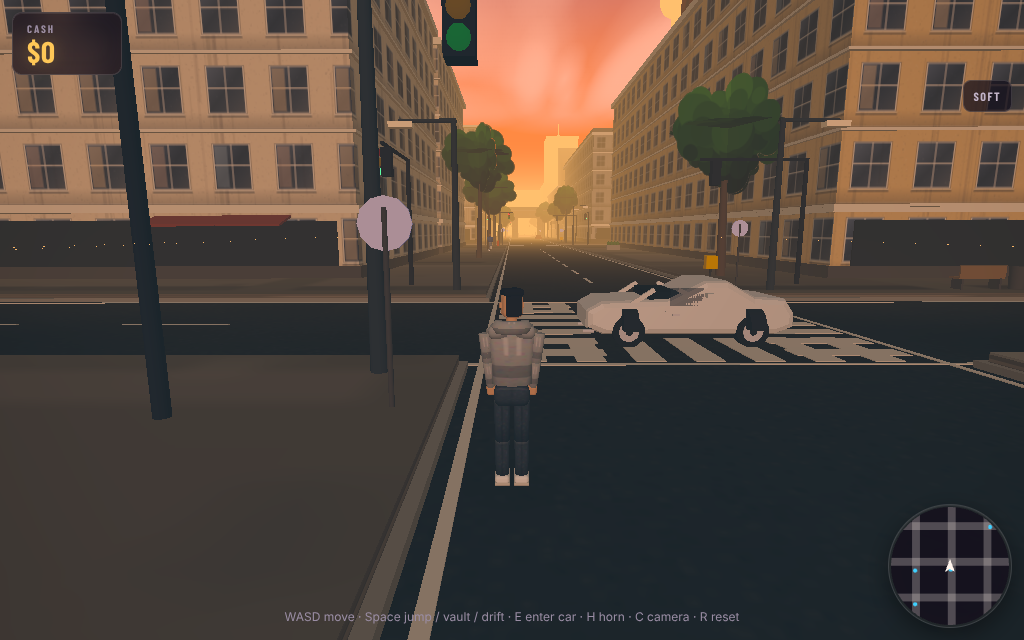
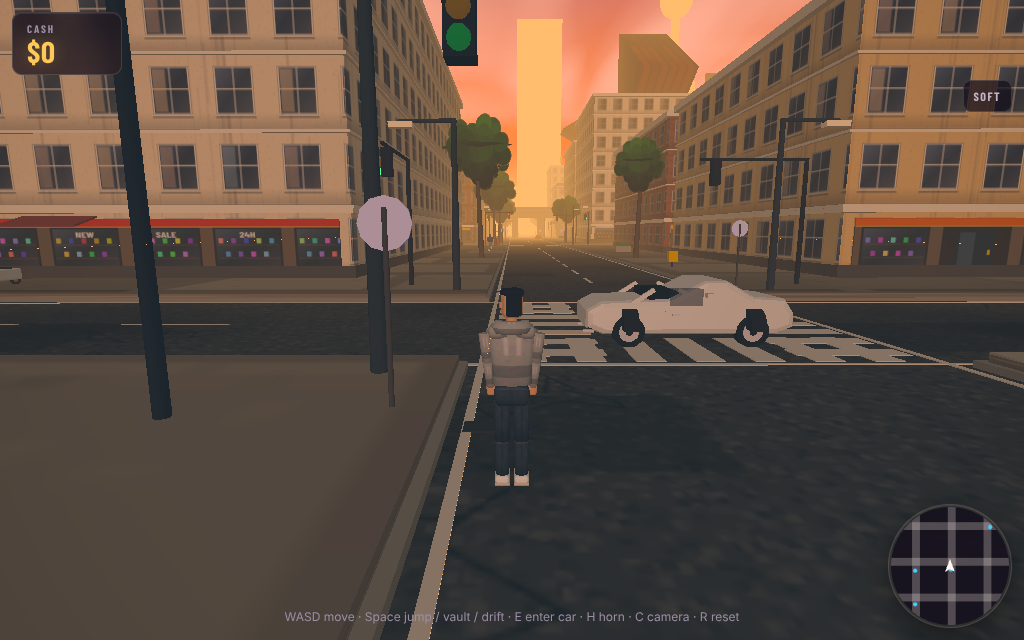
City: textured shopfronts, readable asphalt, drains and manholes
Claude-Session: https://claude.ai/code/session_018KZLyQB5QBTByuUpC7x4xA

diff --git a/src/city/world.ts b/src/city/world.ts
@@ -16,7 +16,7 @@ function mergeSafe(geos: THREE.BufferGeometry[]): THREE.BufferGeometry {
 import { Rng } from '../game/rng';
 import { asphaltTexture, cobbleTexture, facadeTexture, foliageTexture, graffitiTexture, roofTexture, trainTexture, type Facade, type FacadeStyle } from './textures';
 import { buildProps, type PropsOut, type Solid3 } from './props';
-import { neonLabelTexture } from './textures';
+import { neonLabelTexture, shopfrontTexture } from './textures';
 
 const SHOP_NAMES = ['BAKERY', 'KIOSK 24', 'LAUNDRY', 'BARBER', 'NOODLE BAR', 'VINYL', 'PHARMACY', 'CAFÉ LUNA', 'TATTOO', 'FISH MARKET', 'BOOKS', 'REPAIRS', 'PIZZA', 'FLOWERS', 'ARCADE'];
 const SIGN_COLORS = [0xc8352a, 0x2a6a9a, 0x2f7a55, 0xe8b530, 0x7a3a8a, 0xd96a2a];
@@ -149,7 +149,7 @@ export function buildWorld(scene: THREE.Scene, seed = 7, quality: 'high' | 'bala
   const asphalt = asphaltTexture();
   asphalt.map.repeat.set(70, 70);
   asphalt.rough.repeat.set(70, 70);
-  const ground = new THREE.Mesh(new THREE.PlaneGeometry(extent * 2 + 1200, extent * 2 + 1200), new THREE.MeshLambertMaterial({ map: asphalt.map, color: 0x8a8580 }));
+  const ground = new THREE.Mesh(new THREE.PlaneGeometry(extent * 2 + 1200, extent * 2 + 1200), new THREE.MeshLambertMaterial({ map: asphalt.map, color: 0xbfbab2 }));
   ground.rotation.x = -Math.PI / 2;
   ground.receiveShadow = false;
   group.add(ground);
@@ -188,7 +188,7 @@ export function buildWorld(scene: THREE.Scene, seed = 7, quality: 'high' | 'bala
   group.add(marks);
 
   const cobble = cobbleTexture();
-  cobble.repeat.set(0.25, 0.25);
+  cobble.repeat.set(0.5, 0.5);
   const sidewalkGeos: THREE.BufferGeometry[] = [];
   const kerbGeos: THREE.BufferGeometry[] = [];
   const buildings = new Map<string, { facade: Facade; geos: THREE.BufferGeometry[] }>();
@@ -197,6 +197,7 @@ export function buildWorld(scene: THREE.Scene, seed = 7, quality: 'high' | 'bala
   const trimGeos: THREE.BufferGeometry[] = [];
   const darkGeos: THREE.BufferGeometry[] = [];
   const glassGeos: THREE.BufferGeometry[] = [];
+  const shopfronts = new Map<string, { mat: THREE.MeshLambertMaterial; geos: THREE.BufferGeometry[] }>();
   const treeTrunks: THREE.Matrix4[] = [];
   const treeCanopies: THREE.Matrix4[] = [];
   const lampPoleGeos: THREE.BufferGeometry[] = [];
@@ -337,10 +338,13 @@ export function buildWorld(scene: THREE.Scene, seed = 7, quality: 'high' | 'bala
             aw.translate(lot.x + (rng.next() - 0.5) * (w - 6), 3.1, lot.z + side * (d / 2 + 0.7));
             awningGeos.push(aw);
           }
-          // Shop windows: a strip of dark glass.
-          const shop = new THREE.BoxGeometry(w - 2, 2.2, d + 0.15);
-          shop.translate(lot.x, 2.0, lot.z);
-          glassGeos.push(shop);
+          // Shopfront strip: textured bays (windows, doors, fascias) wrapped around the ground floor.
+          const shop = new THREE.BoxGeometry(w - 1.2, 2.6, d + 0.16);
+          facadeUVs(shop, w - 1.2, 2.6, d + 0.16, 16, 2.6);
+          shop.translate(lot.x, 1.9, lot.z);
+          const sfKey = `sf-${rng.int(0, 5)}`;
+          if (!shopfronts.has(sfKey)) shopfronts.set(sfKey, { mat: new THREE.MeshLambertMaterial({ map: shopfrontTexture(seed * 17 + shopfronts.size * 3, SIGN_COLORS[shopfronts.size % SIGN_COLORS.length]), emissive: 0xffd9a0, emissiveIntensity: 0 }), geos: [] });
+          shopfronts.get(sfKey)!.geos.push(shop);
         }
         // Per-floor ledges give the facade real depth; balconies on residential blocks.
         if (district !== 'modern') {
@@ -530,6 +534,23 @@ export function buildWorld(scene: THREE.Scene, seed = 7, quality: 'high' | 'bala
   if (bollards.length) group.add(new THREE.Mesh(mergeSafe(bollards), new THREE.MeshLambertMaterial({ color: 0x2a2a2e})));
   const shopGlassMat = new THREE.MeshLambertMaterial({ color: 0x141a22, emissive: 0xffd9a0, emissiveIntensity: 0});
   if (glassGeos.length) group.add(new THREE.Mesh(mergeSafe(glassGeos), shopGlassMat));
+  for (const sf of shopfronts.values()) if (sf.geos.length) group.add(new THREE.Mesh(mergeSafe(sf.geos), sf.mat));
+  // Drains at every kerb corner and a few manholes mid-road.
+  const drainGeos: THREE.BufferGeometry[] = [];
+  for (const b of blockInfo) {
+    for (const sx of [-1, 1]) for (const sz of [-1, 1]) {
+      const dg = new THREE.BoxGeometry(0.9, 0.03, 0.4);
+      dg.translate(b.cx + sx * (b.half + 0.8), 0.015, b.cz + sz * (b.half - 3));
+      drainGeos.push(dg);
+    }
+  }
+  for (const x of roadsX) for (const z of roadsZ) {
+    if (rng.next() > 0.5) continue;
+    const mh = new THREE.CylinderGeometry(0.5, 0.5, 0.03, 12);
+    mh.translate(x + (rng.next() - 0.5) * 6, 0.015, z + 14 + rng.next() * 30);
+    drainGeos.push(mh);
+  }
+  group.add(new THREE.Mesh(mergeSafe(drainGeos), new THREE.MeshLambertMaterial({ color: 0x2e2c2a })));
 
   // Trees (instanced).
   const trunkMesh = new THREE.InstancedMesh(new THREE.CylinderGeometry(0.16, 0.26, 1, 7), new THREE.MeshLambertMaterial({ color: 0x5a4636}), Math.max(1, treeTrunks.length));
@@ -939,6 +960,7 @@ export function buildWorld(scene: THREE.Scene, seed = 7, quality: 'high' | 'bala
     setNight(n) {
       for (const m of windowMats) m.emissiveIntensity = n * 1.2;
       shopGlassMat.emissiveIntensity = n * 0.6;
+      for (const sf of shopfronts.values()) sf.mat.emissiveIntensity = n * 0.45;
       lampHeadMat.emissiveIntensity = n * 3;
       poolMat.opacity = n * 0.35;
     },

diff --git a/src/city/textures.ts b/src/city/textures.ts
@@ -170,14 +170,14 @@ export function facadeTexture(style: FacadeStyle, seed: number): Facade {
 export function cobbleTexture(seed = 3): THREE.CanvasTexture {
   const rng = new Rng(seed);
   const [c, g] = canvas(512, 512);
-  g.fillStyle = '#8c8578';
+  g.fillStyle = '#a69d8e';
   g.fillRect(0, 0, 512, 512);
   const s = 32;
   for (let y = 0; y < 512; y += s) {
     const off = (y / s) % 2 ? s / 2 : 0;
     for (let x = -s; x < 512; x += s) {
-      const v = 120 + rng.next() * 60;
-      g.fillStyle = `rgb(${v + 10},${v},${v - 12})`;
+      const v = 150 + rng.next() * 55;
+      g.fillStyle = `rgb(${v + 8},${v},${v - 14})`;
       g.fillRect(x + off + 2, y + 2, s - 4, s - 4);
       g.fillStyle = 'rgba(255,255,255,0.12)';
       g.fillRect(x + off + 2, y + 2, s - 4, 3);
@@ -192,12 +192,31 @@ export function cobbleTexture(seed = 3): THREE.CanvasTexture {
 export function asphaltTexture(seed = 5): { map: THREE.CanvasTexture; rough: THREE.CanvasTexture } {
   const rng = new Rng(seed);
   const [c, g] = canvas(512, 512);
-  g.fillStyle = '#3a3733';
+  g.fillStyle = '#56534e';
   g.fillRect(0, 0, 512, 512);
-  for (let i = 0; i < 26000; i++) {
-    const v = 40 + rng.next() * 40;
-    g.fillStyle = `rgb(${v},${v - 2},${v - 4})`;
-    g.fillRect(rng.next() * 512, rng.next() * 512, 1.5, 1.5);
+  for (let i = 0; i < 30000; i++) {
+    const v = 60 + rng.next() * 60;
+    g.fillStyle = `rgb(${v},${v - 2},${v - 5})`;
+    g.fillRect(rng.next() * 512, rng.next() * 512, 1.5 + rng.next() * 1.5, 1.5 + rng.next() * 1.5);
+  }
+  // Cracks and tar patches.
+  g.strokeStyle = 'rgba(20,18,16,0.55)';
+  g.lineWidth = 1.5;
+  for (let i = 0; i < 14; i++) {
+    let x = rng.next() * 512;
+    let y = rng.next() * 512;
+    g.beginPath();
+    g.moveTo(x, y);
+    for (let k = 0; k < 8; k++) {
+      x += (rng.next() - 0.5) * 50;
+      y += (rng.next() - 0.5) * 50;
+      g.lineTo(x, y);
+    }
+    g.stroke();
+  }
+  for (let i = 0; i < 6; i++) {
+    g.fillStyle = 'rgba(30,28,26,0.35)';
+    g.fillRect(rng.next() * 512, rng.next() * 512, 30 + rng.next() * 90, 20 + rng.next() * 60);
   }
   for (let i = 0; i < 10; i++) {
     const x = rng.next() * 512;
@@ -411,4 +430,68 @@ export function neonLabelTexture(text: string, color: number, glow = true): THRE
   const t = new THREE.CanvasTexture(c);
   t.colorSpace = THREE.SRGBColorSpace;
   return t;
+}
+
+/** Ground-floor shopfront strip: 4 m bays with a lit window, shelves inside, a door, a fascia band and an awning stripe. */
+export function shopfrontTexture(seed: number, accent: number): THREE.CanvasTexture {
+  const rng = new Rng(seed);
+  const [c, g] = canvas(512, 128);
+  const hexc = `#${accent.toString(16).padStart(6, '0')}`;
+  g.fillStyle = '#4a4036';
+  g.fillRect(0, 0, 512, 128);
+  for (let bay = 0; bay < 4; bay++) {
+    const x = bay * 128;
+    const kind = rng.next();
+    // Fascia band with the accent colour and a thin gold line.
+    g.fillStyle = hexc;
+    g.fillRect(x, 0, 128, 18);
+    g.fillStyle = 'rgba(255,220,120,0.7)';
+    g.fillRect(x, 18, 128, 2);
+    // Pilasters.
+    g.fillStyle = '#6a5a48';
+    g.fillRect(x, 20, 10, 108);
+    g.fillRect(x + 118, 20, 10, 108);
+    if (kind < 0.3) {
+      // Door bay: glazed door with a brass handle.
+      g.fillStyle = '#2a2420';
+      g.fillRect(x + 10, 20, 108, 108);
+      g.fillStyle = '#1c2a36';
+      g.fillRect(x + 34, 30, 60, 90);
+      g.fillStyle = 'rgba(200,220,255,0.18)';
+      g.fillRect(x + 38, 34, 24, 82);
+      g.fillStyle = '#d9b43a';
+      g.fillRect(x + 84, 76, 4, 12);
+    } else {
+      // Shop window: dark interior with warm shelves and goods, plus a reflection gradient.
+      g.fillStyle = '#1a2028';
+      g.fillRect(x + 10, 20, 108, 108);
+      g.fillStyle = '#3a2a20';
+      g.fillRect(x + 16, 60, 96, 4);
+      g.fillRect(x + 16, 92, 96, 4);
+      for (let i = 0; i < 9; i++) {
+        g.fillStyle = `hsl(${rng.next() * 360},60%,${45 + rng.next() * 25}%)`;
+        g.fillRect(x + 18 + i * 10, 46 + (i % 2) * 32, 7, 12);
+      }
+      const grad = g.createLinearGradient(x + 10, 20, x + 118, 128);
+      grad.addColorStop(0, 'rgba(200,220,255,0.3)');
+      grad.addColorStop(0.5, 'rgba(200,220,255,0.05)');
+      grad.addColorStop(1, 'rgba(255,230,200,0.18)');
+      g.fillStyle = grad;
+      g.fillRect(x + 10, 20, 108, 108);
+      // Window frame.
+      g.strokeStyle = '#2a2420';
+      g.lineWidth = 4;
+      g.strokeRect(x + 12, 22, 104, 104);
+      if (rng.next() > 0.5) {
+        g.fillStyle = 'rgba(255,255,255,0.85)';
+        g.font = '700 18px "Barlow Condensed", "Arial Narrow", sans-serif';
+        g.textAlign = 'center';
+        g.fillText(['SALE', 'OPEN', '24H', 'NEW'][Math.floor(rng.next() * 4)], x + 64, 44);
+      }
+    }
+    // Base plinth.
+    g.fillStyle = '#3a322a';
+    g.fillRect(x, 118, 128, 10);
+  }
+  return finish(c);
 }

diff --git a/src/city/sky.ts b/src/city/sky.ts
@@ -159,7 +159,7 @@ export class SkyDome {
     this.hemi.color.setHSL(0.07, 0.6, 0.6 + a.daylight * 0.2).lerp(new THREE.Color(0x4a5a8a), a.night);
     this.hemi.groundColor.setHSL(0.07, 0.4, 0.2 + a.daylight * 0.15);
     // Fog colour follows the horizon: warm haze by day, deep blue at night.
-    fog.color.copy(k.hor).lerp(k.mid, 0.25);
+    fog.color.copy(k.hor).lerp(k.mid, 0.3).lerp(k.sun, a.warmth * 0.12);
     // Heavy retro fog: the far end of every street dissolves into the sky colour.
     fog.density = 0.0042 + a.warmth * 0.0016 + a.night * 0.0012;
     void renderer;

diff --git a/CHANGELOG.md b/CHANGELOG.md
@@ -1,5 +1,12 @@
 # Changelog
 
+## 1.5.2 — NEON CITY: shopfronts, road surface, drains
+
+- Textured shopfront strip on every old-town/residential ground floor: 4 m bays with lit windows, shelves of goods, glazed doors, fascia bands and SALE/OPEN decals; they glow at night.
+- Asphalt atlas reworked (lighter grain, cracks, tar patches) and brightened so the road surface reads; cobbles lighter and finer.
+- Kerb drains at block corners and manholes mid-road.
+- Fog picks up a little of the sun colour at golden hour.
+
 ## 1.5.1 — NEON CITY: delivery cash, ground contact, signs and filtering
 
 - Delivery/taxi/race targets sat inside building footprints, so the car could never reach them: targets now sit in the kerb lane, the completion radius is 6.5 m, and a "+$ paid" toast confirms the CASH HUD update.
